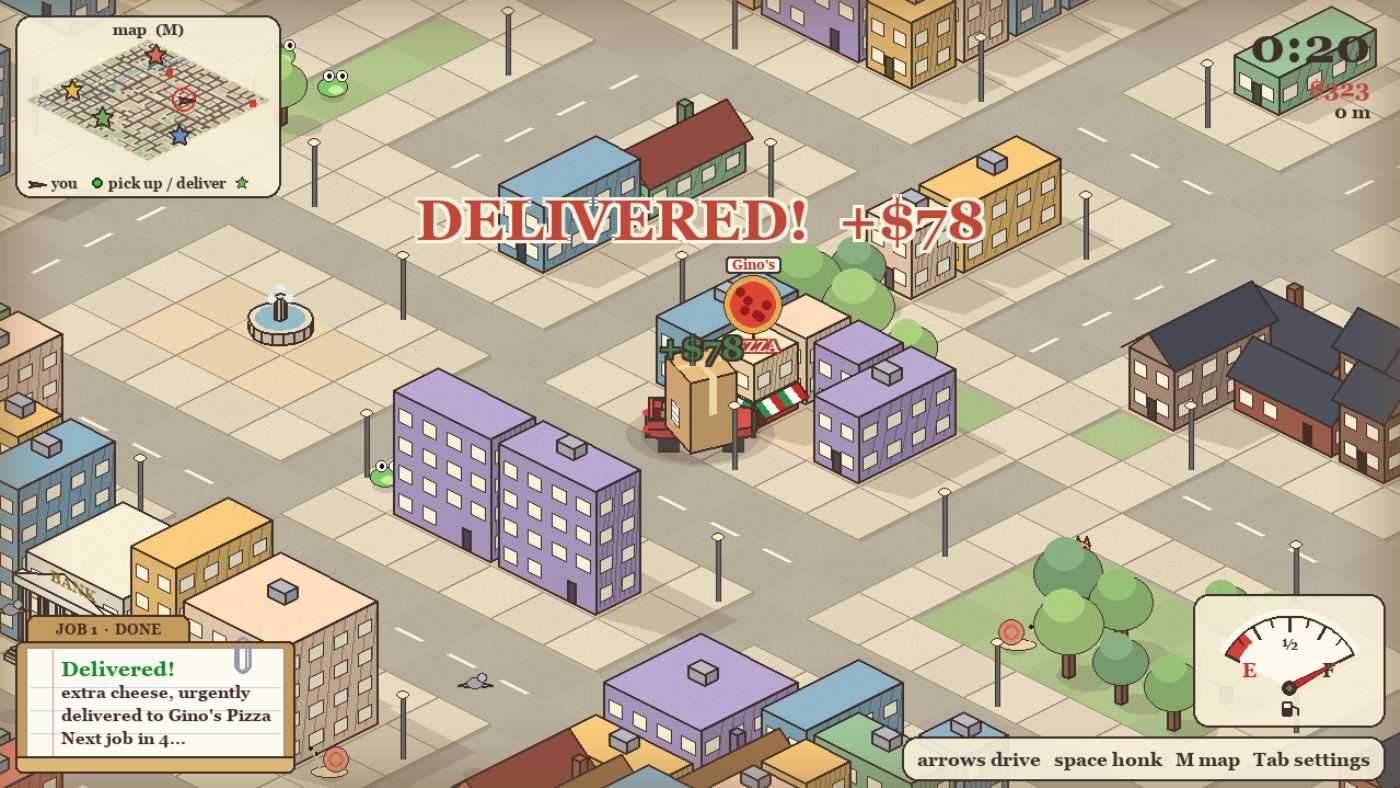
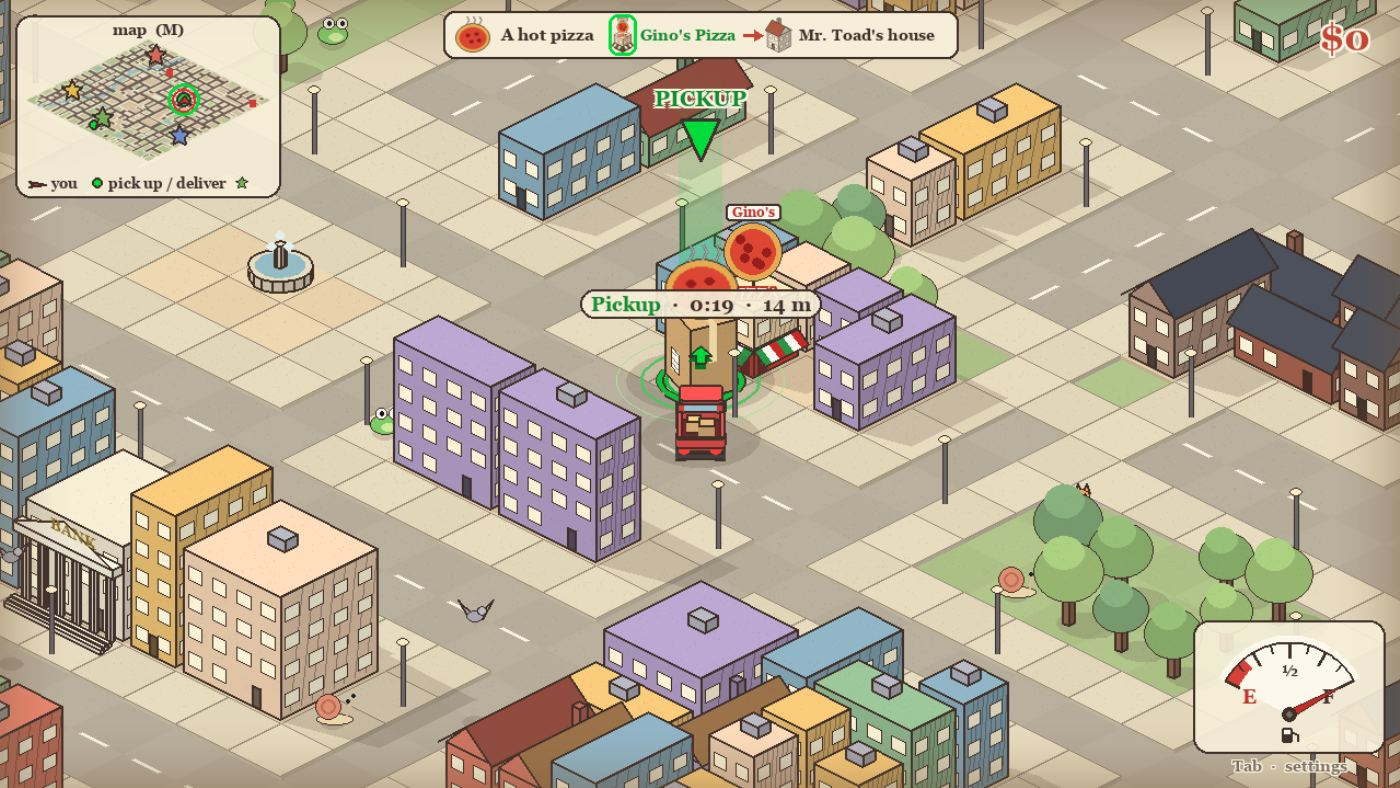
Red Car: early beta download (Chapter I) and fresh screenshots

diff --git a/index.html b/index.html
@@ -257,24 +257,25 @@
         <div class="actions"><a class="btn" href="wireframe-warfare-guide/">Read the player's guide</a></div>
       </article>
 
-      <!-- ===================== GAME 3 (coming soon) ===================== -->
+      <!-- ===================== GAME 3 (early beta) ===================== -->
       <article class="game" id="red-car">
         <div class="game-head">
           <div>
             <h3>Red Car</h3>
-            <p class="tag">Coming soon &middot; a taxi delivery world with a twist</p>
+            <p class="tag">Early beta &middot; a taxi delivery world with a twist</p>
           </div>
           <div class="actions">
-            <span class="btn quiet soon">Coming soon</span>
+            <a class="btn" href="https://github.com/FrogMort-33/Downloads/releases/tag/Red-Car-v261022">Download the early beta</a>
           </div>
         </div>
         <p class="blurb">A little red truck, a whole town to cross, and the clock always ticking. Pick up passengers and parcels, from Granny Snail to A Very Large Chicken to a cake you must not tilt, and drop them at the bakery, the bank or Gino's Pizza before time runs out. Mind the frogs on the road. And if the ground starts to shake, keep driving: the Big Mean Green is in town.</p>
-        <p class="note">Red Car is a working title. It's still being built, so there's no download to share yet.</p>
+        <p class="note">Red Car is a working title, and this is an early beta of Chapter I, so expect rough edges. Windows may warn you about an unknown publisher, because the app isn't code-signed. Choose "More info", then "Run anyway" if you trust the download.</p>
 
         <div class="shots">
-          <div class="shot"><img src="images/red-car-1.jpg" alt="A red car pulling up to collect a passenger: A Very Large Chicken waiting on a green pickup marker in a leafy street" loading="lazy"></div>
-          <div class="shot"><img src="images/red-car-2.jpg" alt="Delivered! A parcel dropped off outside Gino's Pizza, with a $78 fare popping up" loading="lazy"></div>
-          <div class="shot"><img src="images/red-car-3.jpg" alt="A giant green lizard monster, the Big Mean Green, roaring in the street ahead of the little red car" loading="lazy"></div>
+          <div class="shot"><img src="images/red-car-1.jpg" alt="Chapter I, All Quiet on the FrogVille Front: the day's eight jobs as picture cards, each showing who or what, and the building it goes from and to" loading="lazy"></div>
+          <div class="shot"><img src="images/red-car-2.jpg" alt="The red truck pulling up at Gino's Pizza to collect a giant hot pizza, with the job card at the top of the screen" loading="lazy"></div>
+          <div class="shot"><img src="images/red-car-3.jpg" alt="Delivered! A receipt shows the fare worked out from the distance, plus tips for a quick pickup and a quick delivery" loading="lazy"></div>
+          <div class="shot"><img src="images/red-car-4.jpg" alt="The Big Mean Green, a giant green lizard, bending down to chomp at the road right next to the little red truck" loading="lazy"></div>
         </div>
       </article>
     </div>
